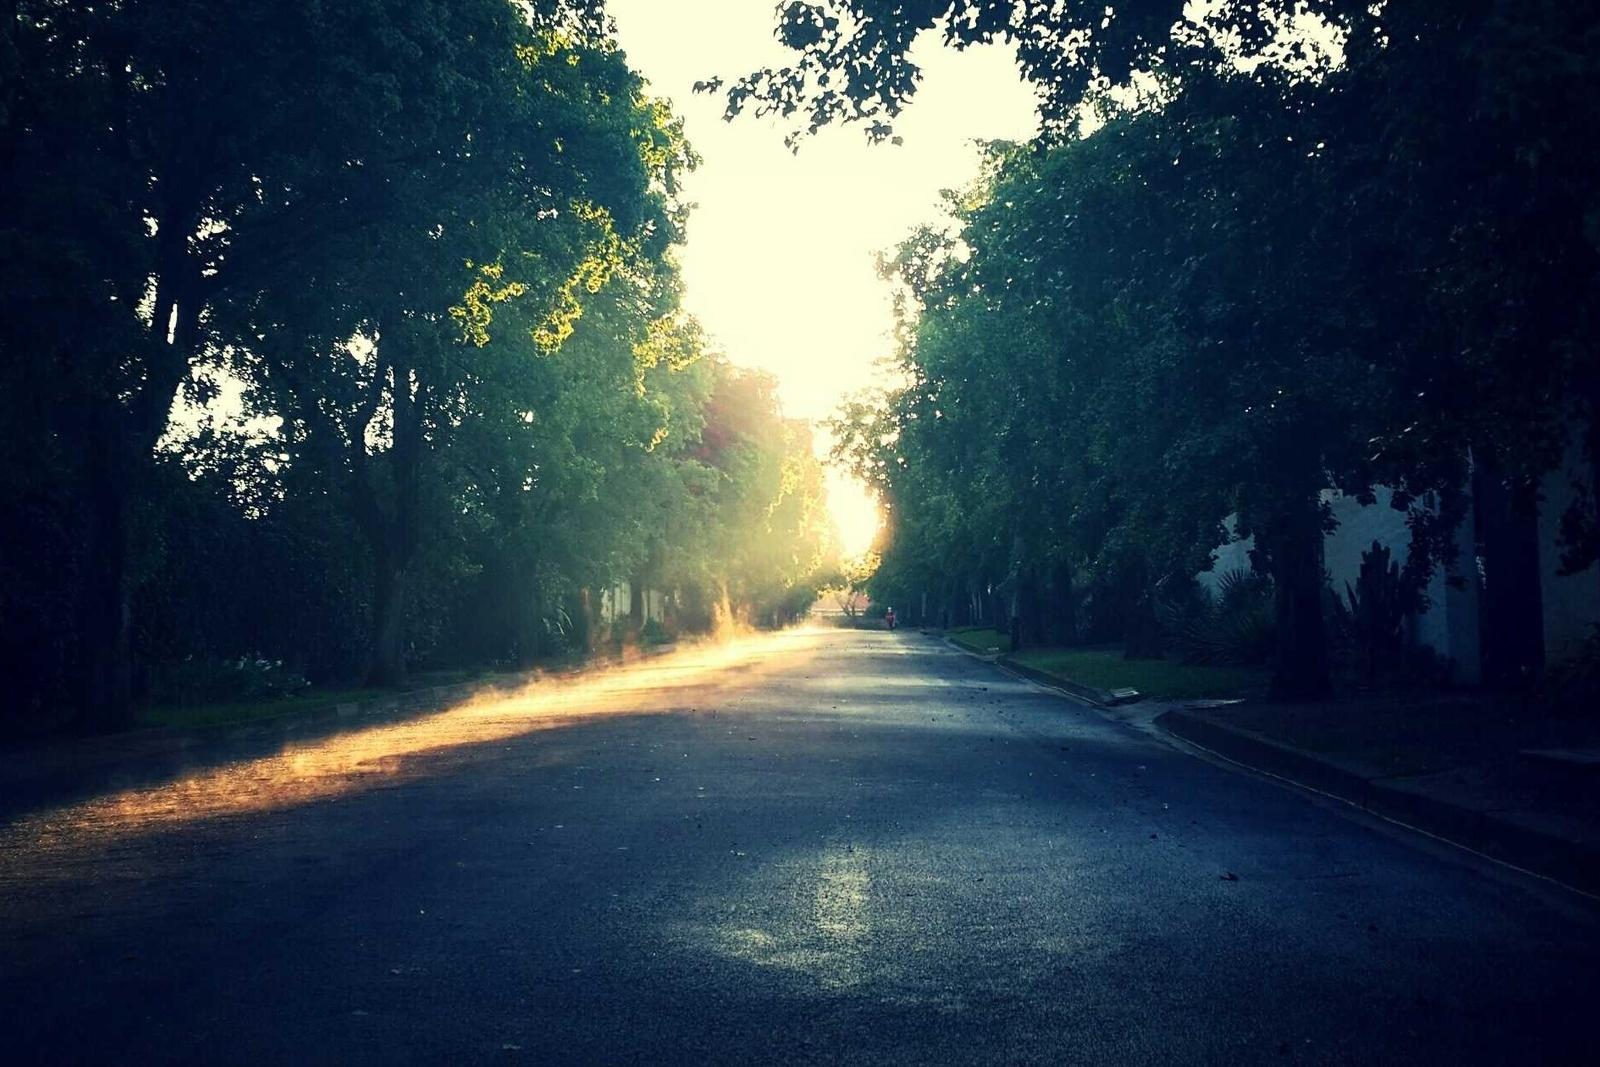
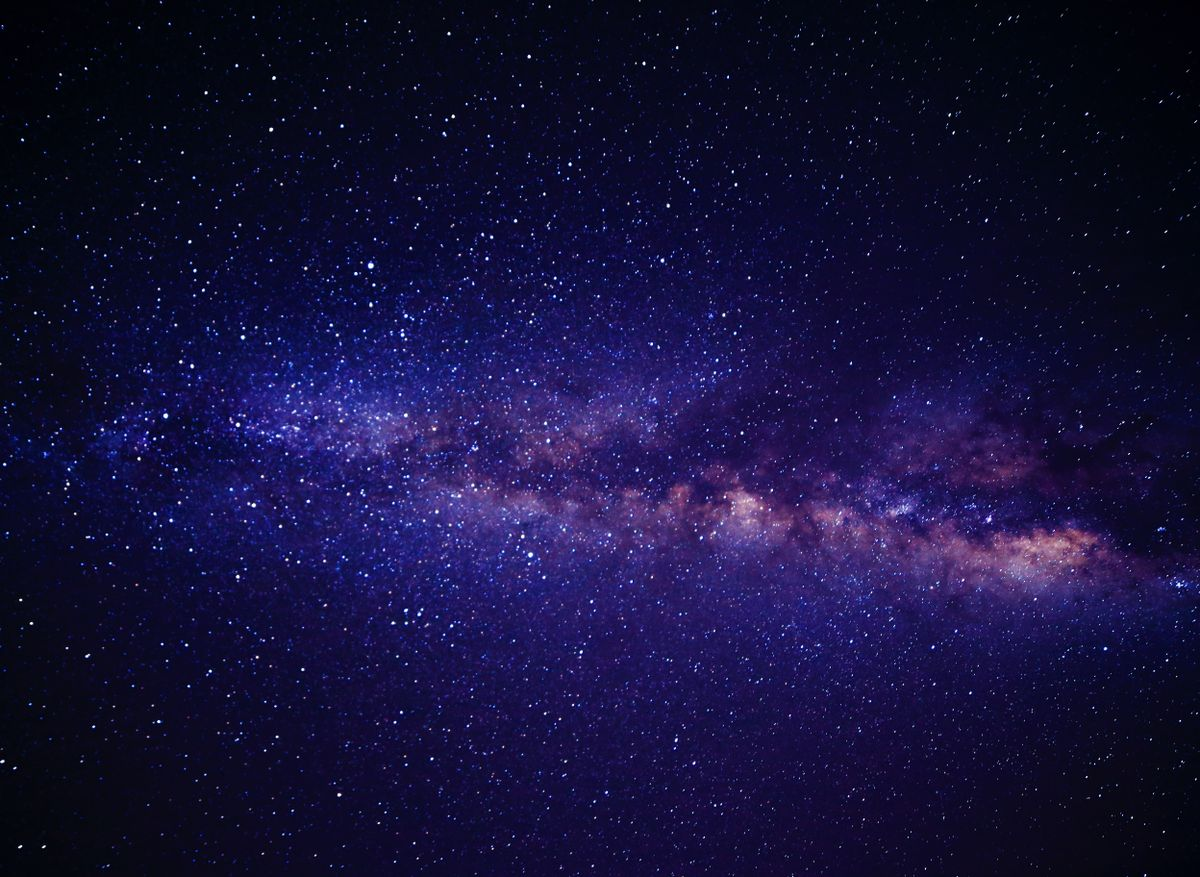
Replace Lorem Picsum placeholder images with relevant space photos from Pexels

diff --git a/shamyl-v2/src/content/blog/space-tech-2026-08-16.md b/shamyl-v2/src/content/blog/space-tech-2026-08-16.md
@@ -75,4 +75,4 @@ This week of August 16, 2026 may be remembered as the moment space investment we
 
 ---
 
-*Images: Lorem Picsum (CC0 license). News compiled from SpaceNews, Space.com, Spaceflight Now, Ars Technica, NASA, CNBC, and TechCrunch.*
+*Images courtesy of Pexels. News compiled from SpaceNews, Space.com, Spaceflight Now, Ars Technica, NASA, CNBC, and TechCrunch.*
